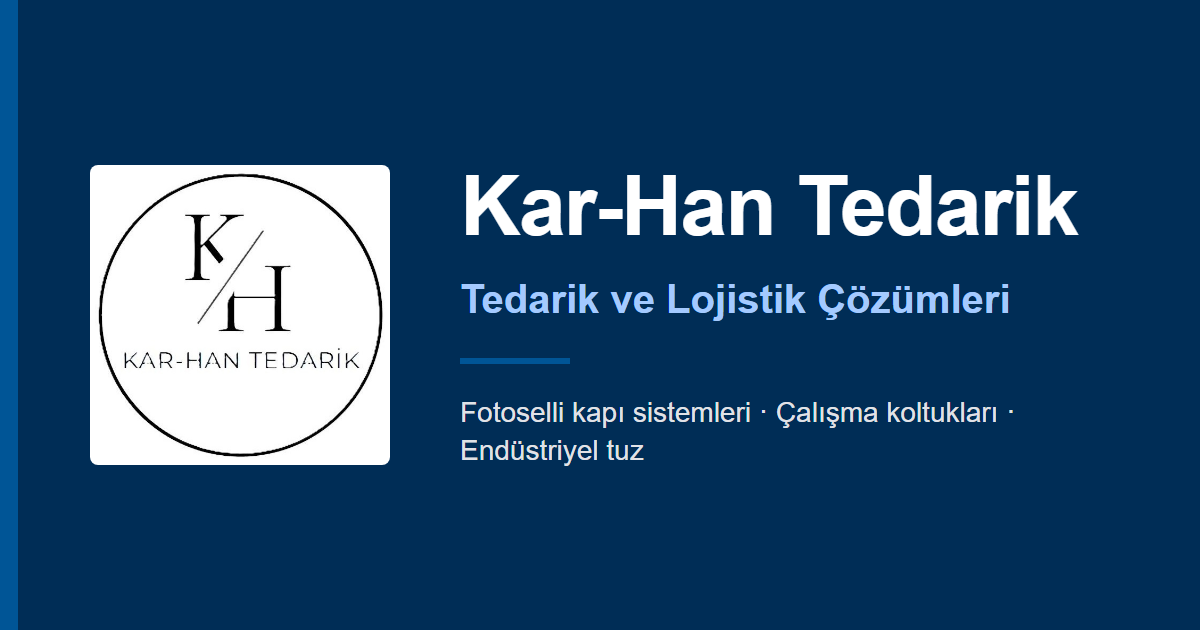
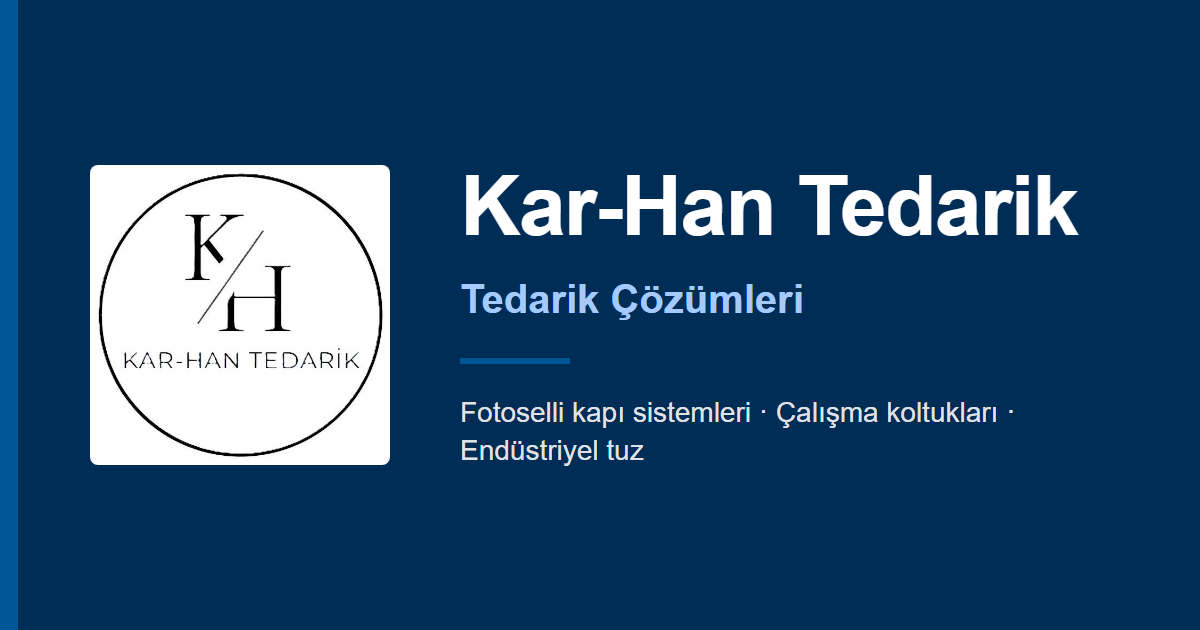
lojistik terimleri kaldırıldı

Changed region(s): [[0.4933, 0.4524, 0.8633, 0.5127]]

diff --git a/index.html b/index.html
@@ -4,9 +4,9 @@
 <head>
     <meta charset="utf-8" />
     <meta content="width=device-width, initial-scale=1.0" name="viewport" />
-    <title>Kar-Han Tedarik - Tedarik ve Lojistik Çözümleri</title>
+    <title>Kar-Han Tedarik - Tedarik Çözümleri</title>
     <meta name="description"
-        content="Kar-Han Tedarik; stratejik satın alma, tedarik zinciri yönetimi ve lojistik alanlarında kurumsal çözümler sunar." />
+        content="Kar-Han Tedarik; stratejik satın alma ve tedarik zinciri yönetimi alanlarında kurumsal çözümler sunar." />
     <meta name="robots" content="index, follow" />
     <link rel="canonical" href="https://karhantedarik.com/index.html" />
     <script src="https://cdn.tailwindcss.com?plugins=forms,container-queries"></script>
@@ -29,18 +29,18 @@
     <meta property="og:site_name" content="Kar-Han Tedarik" />
     <meta property="og:locale" content="tr_TR" />
     <meta property="og:url" content="https://karhantedarik.com/index.html" />
-    <meta property="og:title" content="Kar-Han Tedarik - Tedarik ve Lojistik Çözümleri" />
+    <meta property="og:title" content="Kar-Han Tedarik - Tedarik Çözümleri" />
     <meta property="og:description" content="Fotoselli kapı sistemleri, profesyonel çalışma koltukları ve endüstriyel tuz tedariğinde güvenilir iş ortağınız." />
     <meta property="og:image" content="https://karhantedarik.com/wwwroot/assets/og-image.png" />
     <meta property="og:image:type" content="image/png" />
     <meta property="og:image:width" content="1200" />
     <meta property="og:image:height" content="630" />
-    <meta property="og:image:alt" content="Kar-Han Tedarik - Tedarik ve Lojistik Çözümleri" />
+    <meta property="og:image:alt" content="Kar-Han Tedarik - Tedarik Çözümleri" />
     <meta name="twitter:card" content="summary_large_image" />
-    <meta name="twitter:title" content="Kar-Han Tedarik - Tedarik ve Lojistik Çözümleri" />
+    <meta name="twitter:title" content="Kar-Han Tedarik - Tedarik Çözümleri" />
     <meta name="twitter:description" content="Fotoselli kapı sistemleri, profesyonel çalışma koltukları ve endüstriyel tuz tedariğinde güvenilir iş ortağınız." />
     <meta name="twitter:image" content="https://karhantedarik.com/wwwroot/assets/og-image.png" />
-    <meta name="twitter:image:alt" content="Kar-Han Tedarik - Tedarik ve Lojistik Çözümleri" />
+    <meta name="twitter:image:alt" content="Kar-Han Tedarik - Tedarik Çözümleri" />
     <link rel="icon" type="image/jpeg" href="wwwroot/assets/logo.jpeg" />
     <link rel="apple-touch-icon" href="wwwroot/assets/logo.jpeg" />
     <!-- Schema Markup: Organization + LocalBusiness -->
@@ -57,7 +57,7 @@
                     "@type": "ImageObject",
                     "url": "https://karhantedarik.com/wwwroot/assets/logo.jpeg"
                 },
-                "description": "Kar-Han Tedarik; stratejik satın alma, tedarik zinciri yönetimi ve lojistik alanlarında kurumsal çözümler sunar.",
+                "description": "Kar-Han Tedarik; stratejik satın alma ve tedarik zinciri yönetimi alanlarında kurumsal çözümler sunar.",
                 "telephone": "+905324472171",
                 "email": "karhantedarik@gmail.com",
                 "address": {
@@ -74,7 +74,7 @@
                 "knowsLanguage": "tr",
                 "hasOfferCatalog": {
                     "@type": "OfferCatalog",
-                    "name": "Tedarik ve Lojistik Hizmetleri",
+                    "name": "Tedarik Hizmetleri",
                     "itemListElement": [
                         {
                             "@type": "Offer",
@@ -90,14 +90,6 @@
                                 "@type": "Service",
                                 "name": "Tedarik Zinciri Yönetimi",
                                 "description": "Uçtan uca şeffaflık sağlayan, entegre ve sürdürülebilir tedarik zinciri çözümleri."
-                            }
-                        },
-                        {
-                            "@type": "Offer",
-                            "itemOffered": {
-                                "@type": "Service",
-                                "name": "Lojistik",
-                                "description": "Uluslararası standartlarda, zamanında ve güvenli teslimat garantisi ile lojistik operasyonlar."
                             }
                         }
                     ]
@@ -120,7 +112,7 @@
                 "@type": "WebPage",
                 "@id": "https://karhantedarik.com/index.html",
                 "url": "https://karhantedarik.com/index.html",
-                "name": "Kar-Han Tedarik - Tedarik ve Lojistik Çözümleri",
+                "name": "Kar-Han Tedarik - Tedarik Çözümleri",
                 "isPartOf": { "@id": "https://karhantedarik.com/#website" },
                 "about": { "@id": "https://karhantedarik.com/#organization" },
                 "inLanguage": "tr"
@@ -147,7 +139,7 @@
                 class="relative z-10 max-w-container-max-width mx-auto px-margin-mobile md:px-margin-desktop text-center text-surface-container-lowest">
                 <h1
                     class="font-headline-lg text-headline-lg md:font-headline-xl md:text-headline-xl mb-stack-md">
-                    Tedarik ve Lojistik Çözümleri
+                    Tedarik Çözümleri
                 </h1>
                 <p class="font-body-lg text-body-lg mb-stack-lg max-w-3xl mx-auto opacity-90">
                     Dünyanın dört bir yanına güvenli, hızlı ve optimize edilmiş tedarik zinciri yönetimi ile kurumsal
@@ -353,7 +345,7 @@
                                 &amp; İlaç</span>
                             <h3 class="font-body-lg text-body-lg font-bold mb-stack-sm">Soğuk Zincir Yönetimi</h3>
                             <p class="font-body-sm text-body-sm opacity-90">Hassas medikal ürünler için sıfır hata
-                                toleranslı lojistik.</p>
+                                toleranslı tedarik.</p>
                         </div>
                     </div>
                     <div data-aos="zoom-in" class="md:col-span-3 corp-card relative overflow-hidden group flex flex-col justify-end p-0">
@@ -382,7 +374,7 @@
                 <h2 class="font-headline-lg text-headline-lg mb-stack-md">Operasyonlarınızı Dönüştürmeye Hazır Mısınız?
                 </h2>
                 <p class="font-body-lg text-body-lg mb-stack-lg opacity-90">Uzman ekibimizle iletişime geçin,
-                    işletmenize özel tedarik ve lojistik stratejilerini birlikte planlayalım.</p>
+                    işletmenize özel tedarik stratejilerini birlikte planlayalım.</p>
                 <div class="flex flex-col sm:flex-row justify-center gap-4">
                     <a href="iletisim.html"
                         class="btn-primary bg-surface-container-lowest text-deep-navy hover:bg-surface text-body-md font-body-md px-8 py-4">Teklif

diff --git a/hakkimizda.html b/hakkimizda.html
@@ -27,12 +27,12 @@
     <meta property="og:image:type" content="image/png" />
     <meta property="og:image:width" content="1200" />
     <meta property="og:image:height" content="630" />
-    <meta property="og:image:alt" content="Kar-Han Tedarik - Tedarik ve Lojistik Çözümleri" />
+    <meta property="og:image:alt" content="Kar-Han Tedarik - Tedarik Çözümleri" />
     <meta name="twitter:card" content="summary_large_image" />
     <meta name="twitter:title" content="Hakkımızda - Kar-Han Tedarik" />
     <meta name="twitter:description" content="Güvenilir tedarik ortağınız. Doğru tedarik, kesintisiz hizmet." />
     <meta name="twitter:image" content="https://karhantedarik.com/wwwroot/assets/og-image.png" />
-    <meta name="twitter:image:alt" content="Kar-Han Tedarik - Tedarik ve Lojistik Çözümleri" />
+    <meta name="twitter:image:alt" content="Kar-Han Tedarik - Tedarik Çözümleri" />
     <link rel="icon" type="image/jpeg" href="wwwroot/assets/logo.jpeg" />
     <link rel="apple-touch-icon" href="wwwroot/assets/logo.jpeg" />
     <!-- Schema Markup: AboutPage -->
@@ -62,8 +62,7 @@
                     "Fotoselli Kapı Sistemleri",
                     "Profesyonel Çalışma Koltukları",
                     "Endüstriyel Tuz Tedariği",
-                    "Tedarik Zinciri Yönetimi",
-                    "Lojistik"
+                    "Tedarik Zinciri Yönetimi"
                 ]
             }
         ]
@@ -100,7 +99,7 @@
                 <div data-aos="fade-up" class="corp-card ambient-shadow border-l-4 border-primary">
                     <span class="material-symbols-outlined text-3xl text-primary mb-3" style="font-variation-settings: 'FILL' 0;">flag</span>
                     <h3 class="font-headline-md text-headline-md text-deep-navy mb-3">Misyonumuz</h3>
-                    <p class="font-body-md text-body-md text-secondary">İşletmelerin tedarik ve lojistik süreçlerini dijital çözümlerle optimize ederek operasyonel verimliliği artırmak ve maliyetleri düşürmek.</p>
+                    <p class="font-body-md text-body-md text-secondary">İşletmelerin tedarik süreçlerini dijital çözümlerle optimize ederek operasyonel verimliliği artırmak ve maliyetleri düşürmek.</p>
                 </div>
                 <div data-aos="fade-up" data-aos-delay="100" class="corp-card ambient-shadow border-l-4 border-tertiary">
                     <span class="material-symbols-outlined text-3xl text-tertiary mb-3" style="font-variation-settings: 'FILL' 0;">visibility</span>
@@ -152,7 +151,7 @@
                 <div data-aos="fade-up" class="corp-card ambient-shadow hover:-translate-y-1 transition-transform duration-300">
                     <span class="material-symbols-outlined text-4xl text-primary mb-3" style="font-variation-settings: 'FILL' 0;">hub</span>
                     <h3 class="font-label-bold text-label-bold text-deep-navy mb-2">Çok Yönlü Tedarik Gücü</h3>
-                    <p class="font-body-sm text-body-sm text-secondary">Farklı ihtiyaçlarınızı tek bir güvenilir kaynaktan çözerek lojistik ve operasyonel süreçlerinizi hafifletiyoruz.</p>
+                    <p class="font-body-sm text-body-sm text-secondary">Farklı ihtiyaçlarınızı tek bir güvenilir kaynaktan çözerek operasyonel süreçlerinizi hafifletiyoruz.</p>
                 </div>
                 <div data-aos="fade-up" data-aos-delay="100" class="corp-card ambient-shadow hover:-translate-y-1 transition-transform duration-300">
                     <span class="material-symbols-outlined text-4xl text-primary mb-3" style="font-variation-settings: 'FILL' 0;">local_shipping</span>

diff --git a/hizmetler.html b/hizmetler.html
@@ -28,12 +28,12 @@
     <meta property="og:image:type" content="image/png" />
     <meta property="og:image:width" content="1200" />
     <meta property="og:image:height" content="630" />
-    <meta property="og:image:alt" content="Kar-Han Tedarik - Tedarik ve Lojistik Çözümleri" />
+    <meta property="og:image:alt" content="Kar-Han Tedarik - Tedarik Çözümleri" />
     <meta name="twitter:card" content="summary_large_image" />
     <meta name="twitter:title" content="Ürün ve Hizmetlerimiz - Kar-Han Tedarik" />
     <meta name="twitter:description" content="Fotoselli kapı sistemleri, çalışma koltukları ve endüstriyel tuz tedariği." />
     <meta name="twitter:image" content="https://karhantedarik.com/wwwroot/assets/og-image.png" />
-    <meta name="twitter:image:alt" content="Kar-Han Tedarik - Tedarik ve Lojistik Çözümleri" />
+    <meta name="twitter:image:alt" content="Kar-Han Tedarik - Tedarik Çözümleri" />
     <link rel="icon" type="image/jpeg" href="wwwroot/assets/logo.jpeg" />
     <link rel="apple-touch-icon" href="wwwroot/assets/logo.jpeg" />
     <!-- Schema Markup: Service Page -->
@@ -42,7 +42,7 @@
         "@context": "https://schema.org",
         "@type": "ItemList",
         "name": "Kar-Han Tedarik Hizmetleri",
-        "description": "Tedarik zinciri ve lojistik çözümleri",
+        "description": "Tedarik zinciri çözümleri",
         "url": "https://karhantedarik.com/hizmetler.html",
         "provider": {
             "@type": "Organization",
@@ -75,16 +75,6 @@
             {
                 "@type": "ListItem",
                 "position": 3,
-                "item": {
-                    "@type": "Service",
-                    "name": "Lojistik",
-                    "description": "Uluslararası standartlarda, zamanında ve güvenli teslimat garantisi ile lojistik operasyonlar.",
-                    "provider": { "@id": "https://karhantedarik.com/#organization" }
-                }
-            },
-            {
-                "@type": "ListItem",
-                "position": 4,
                 "item": {
                     "@type": "Service",
                     "name": "Danışmanlık ve Analitik",
@@ -179,7 +169,7 @@
                     <div data-aos="fade-up" class="corp-card hover:-translate-y-1 transition-transform duration-300">
                         <span class="material-symbols-outlined text-4xl text-primary mb-3" style="font-variation-settings: 'FILL' 0;">hub</span>
                         <h3 class="font-label-bold text-label-bold text-deep-navy mb-2">Çok Yönlü Tedarik Gücü</h3>
-                        <p class="font-body-sm text-body-sm text-secondary">Farklı ihtiyaçlarınızı tek bir güvenilir kaynaktan çözerek lojistik ve operasyonel süreçlerinizi hafifletiyoruz.</p>
+                        <p class="font-body-sm text-body-sm text-secondary">Farklı ihtiyaçlarınızı tek bir güvenilir kaynaktan çözerek operasyonel süreçlerinizi hafifletiyoruz.</p>
                     </div>
                     <div data-aos="fade-up" data-aos-delay="100" class="corp-card hover:-translate-y-1 transition-transform duration-300">
                         <span class="material-symbols-outlined text-4xl text-primary mb-3" style="font-variation-settings: 'FILL' 0;">local_shipping</span>

diff --git a/referanslar.html b/referanslar.html
@@ -27,12 +27,12 @@
     <meta property="og:image:type" content="image/png" />
     <meta property="og:image:width" content="1200" />
     <meta property="og:image:height" content="630" />
-    <meta property="og:image:alt" content="Kar-Han Tedarik - Tedarik ve Lojistik Çözümleri" />
+    <meta property="og:image:alt" content="Kar-Han Tedarik - Tedarik Çözümleri" />
     <meta name="twitter:card" content="summary_large_image" />
     <meta name="twitter:title" content="Referanslarımız - Kar-Han Tedarik" />
     <meta name="twitter:description" content="Çalıştığımız firmalar ve iş ortaklarımız." />
     <meta name="twitter:image" content="https://karhantedarik.com/wwwroot/assets/og-image.png" />
-    <meta name="twitter:image:alt" content="Kar-Han Tedarik - Tedarik ve Lojistik Çözümleri" />
+    <meta name="twitter:image:alt" content="Kar-Han Tedarik - Tedarik Çözümleri" />
     <link rel="icon" type="image/jpeg" href="wwwroot/assets/logo.jpeg" />
     <link rel="apple-touch-icon" href="wwwroot/assets/logo.jpeg" />
 </head>
@@ -100,7 +100,7 @@
             </div>
             <div class="grid grid-cols-1 md:grid-cols-3 gap-gutter">
                 <div data-aos="fade-up" class="corp-card ambient-shadow">
-                    <p class="font-body-md text-body-md text-secondary mb-6 italic">"Kar-Han Tedarik ile çalışmaya başlamamızın ardından lojistik maliyetlerimizde %25 düşüş yaşadık."</p>
+                    <p class="font-body-md text-body-md text-secondary mb-6 italic">"Kar-Han Tedarik ile çalışmaya başlamamızın ardından tedarik maliyetlerimizde %25 düşüş yaşadık."</p>
                     <div class="flex items-center gap-3">
                         <div class="w-10 h-10 rounded-full bg-primary flex items-center justify-center text-on-primary font-bold">AK</div>
                         <div>
@@ -125,7 +125,7 @@
                         <div class="w-10 h-10 rounded-full bg-primary flex items-center justify-center text-on-primary font-bold">MO</div>
                         <div>
                             <div class="font-label-bold text-label-bold text-deep-navy">Mert Özkan</div>
-                            <div class="font-body-sm text-body-sm text-secondary">Lojistik Direktörü, PartnerOne</div>
+                            <div class="font-body-sm text-body-sm text-secondary">Tedarik Direktörü, PartnerOne</div>
                         </div>
                     </div>
                 </div>

diff --git a/iletisim.html b/iletisim.html
@@ -27,12 +27,12 @@
     <meta property="og:image:type" content="image/png" />
     <meta property="og:image:width" content="1200" />
     <meta property="og:image:height" content="630" />
-    <meta property="og:image:alt" content="Kar-Han Tedarik - Tedarik ve Lojistik Çözümleri" />
+    <meta property="og:image:alt" content="Kar-Han Tedarik - Tedarik Çözümleri" />
     <meta name="twitter:card" content="summary_large_image" />
     <meta name="twitter:title" content="İletişim - Kar-Han Tedarik" />
     <meta name="twitter:description" content="Fiyat teklifi alın ve bize ulaşın." />
     <meta name="twitter:image" content="https://karhantedarik.com/wwwroot/assets/og-image.png" />
-    <meta name="twitter:image:alt" content="Kar-Han Tedarik - Tedarik ve Lojistik Çözümleri" />
+    <meta name="twitter:image:alt" content="Kar-Han Tedarik - Tedarik Çözümleri" />
     <link rel="icon" type="image/jpeg" href="wwwroot/assets/logo.jpeg" />
     <link rel="apple-touch-icon" href="wwwroot/assets/logo.jpeg" />
     <!-- Schema Markup: ContactPage -->

diff --git a/wwwroot/js/components.js b/wwwroot/js/components.js
@@ -57,7 +57,7 @@ function renderFooter() {
                         <img src="wwwroot/assets/logo.jpeg" alt="Kar-Han Tedarik Logosu" class="h-8 w-auto rounded object-cover" />
                         <div class="font-bold text-surface-container-lowest text-lg">Kar-Han Tedarik</div>
                     </div>
-                    <p class="opacity-70 text-sm leading-relaxed">Tedarik zinciri ve lojistik çözümlerinde güvenilir iş ortağınız.</p>
+                    <p class="opacity-70 text-sm leading-relaxed">Tedarik zinciri çözümlerinde güvenilir iş ortağınız.</p>
                 </div>
                 <div>
                     <h4 class="font-bold text-surface-container-lowest mb-4">Sayfalar</h4>
